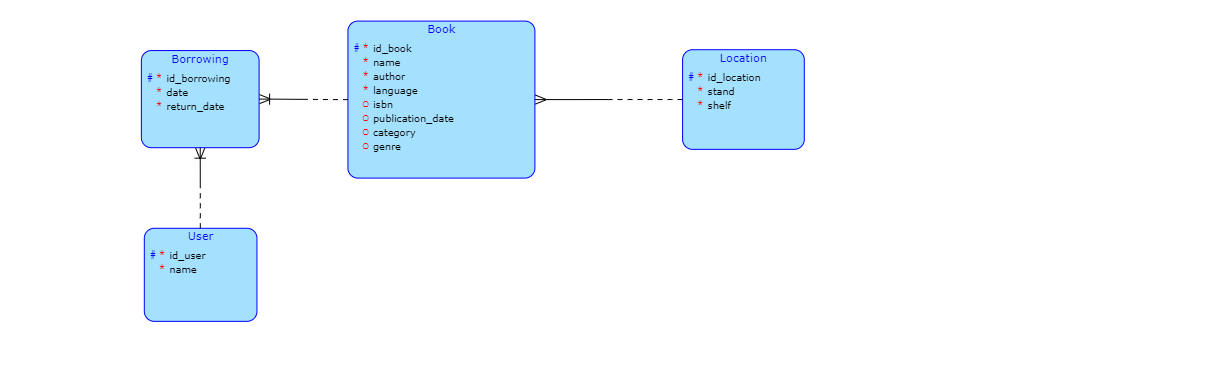
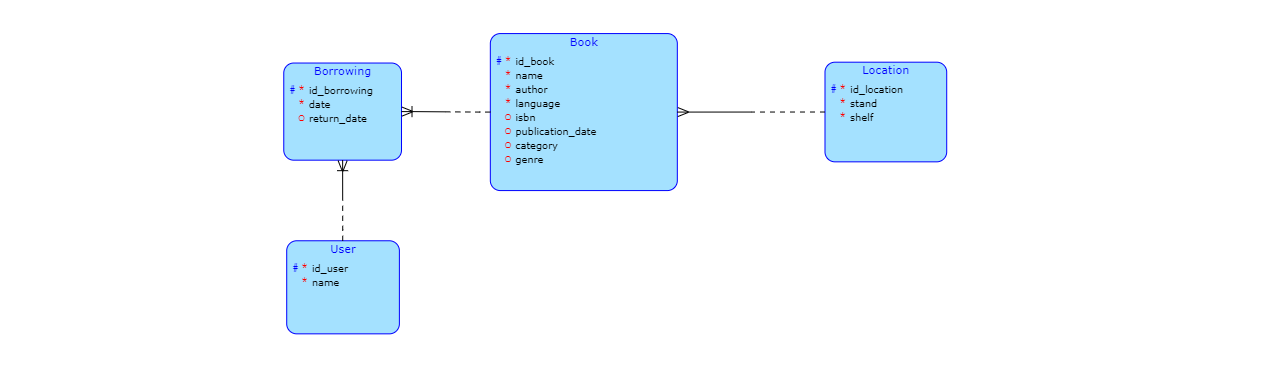
README update

Changed region(s): [[0.0919, 0.03, 0.7657, 0.5095], [0.0919, 0.5995, 0.3369, 0.8992]]

diff --git a/README.md b/README.md
@@ -7,4 +7,11 @@ Práce bude zprostředkovávat správu domácí knihovny. Bude evidovat vlastně
 <br>
 
 - každá kniha má vlastní **ID** pro identifikaci, **jméno knihy**, **jméno autora** a **jazyk**, ve kterém je napsána (nejčastěji čeština/angličtina). Její nepovinné atributy jsou **ISBN**, **datum vydání**, **kategorie**, která se rozděluje pouze na světovou a českou (přání klienta), a **literární žánr** (pravděpodobně bude zjednodušen hlavně na beletrii a poezii).
-- knihy jsou v knihovně uloženy na konkrétním místě. Tuto skutečnost představuje entita lokace, která kromě svého ID ukládá pouze sloup a polici
+- knihy jsou v knihovně uloženy na konkrétním místě. Tuto skutečnost představuje entita lokace, která kromě svého **ID** ukládá pouze **sloup** a **polici**. Více knih může být na jednom místě (na poličku se vejde asi 20 knih).
+- další entitou je uživatel. U něj je evidováno pouze **ID** a **jméno**. Každý uživatel si může půjčit knihu, výpůjček může provést několik, ale evidují se vždy po jedné.
+- entita výpůjčka je pouze dekomponovaná vazba M:N mezi uživatelem a knihou, kde jsou přidány parametry **data půjčení** a **data vrácení**, datum vrácení je nepovinný parametr (přidá se až určitou dobu po vzniku záznamu). Jedná se o slabou entitu.
+
+### Business operace:
+Hlavní funkce celého programu bude evidence knih, takže bude muset umět ukládat nové knihy a mazat vyřazené. Stejně tak bude umět odebírat a přidávat nové umístění a aktualizovat veškeré informace.<br>
+Druhá větší funkcionalita bude půjčování knih. Při půjčení knihy bude muset program vytvořit nového uživatele nebo najít stávajícího a přidat k němu další výpůjčku. Zároveň bude muset najít žádanou knihu a zkontrolovat, zda je dostupná (nemá ji zrovna půjčenou někdo jiný). Jakmile proběhnou tyto kontroly, tak program vytvoří nový záznam s datem, kdy byla kniha zapůjčena. Ve chvíli kdy uživatel knihu vrátí, tak k výpůjčce přidá datum vrácení, tím se kniha stane opět dostupnou.<br>
+V programu bude možné vznést dotaz na vypsání všech současně zapůjčených knížek spolu s uživateli, kteří si knihu zapůjčili.
